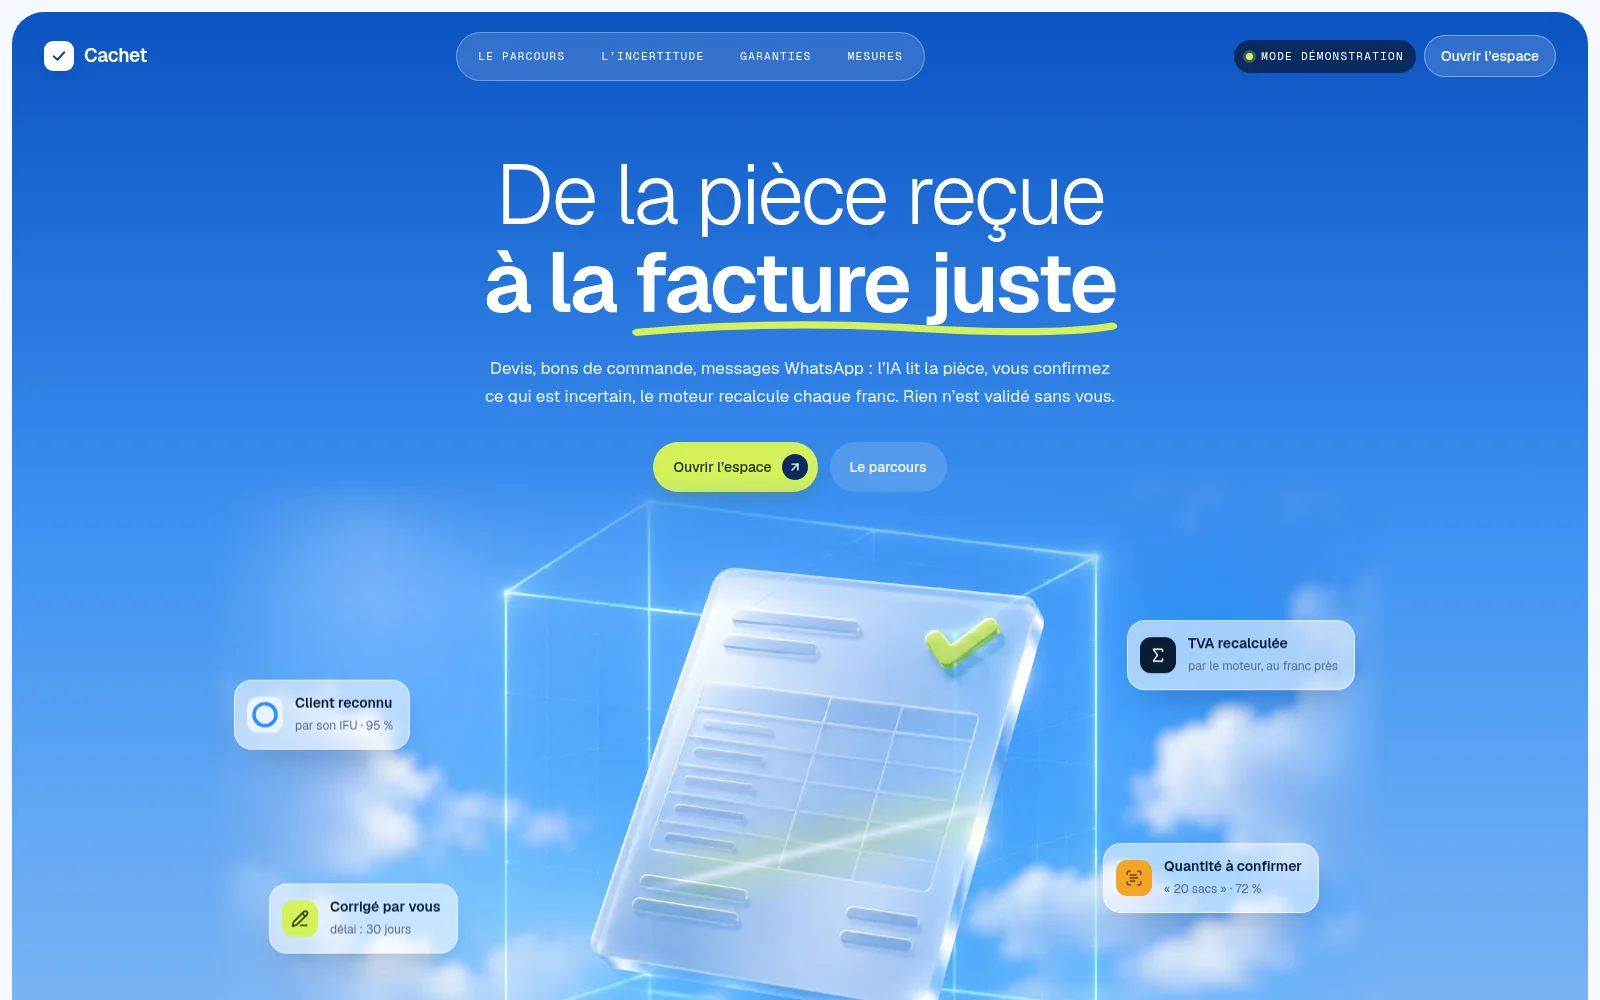
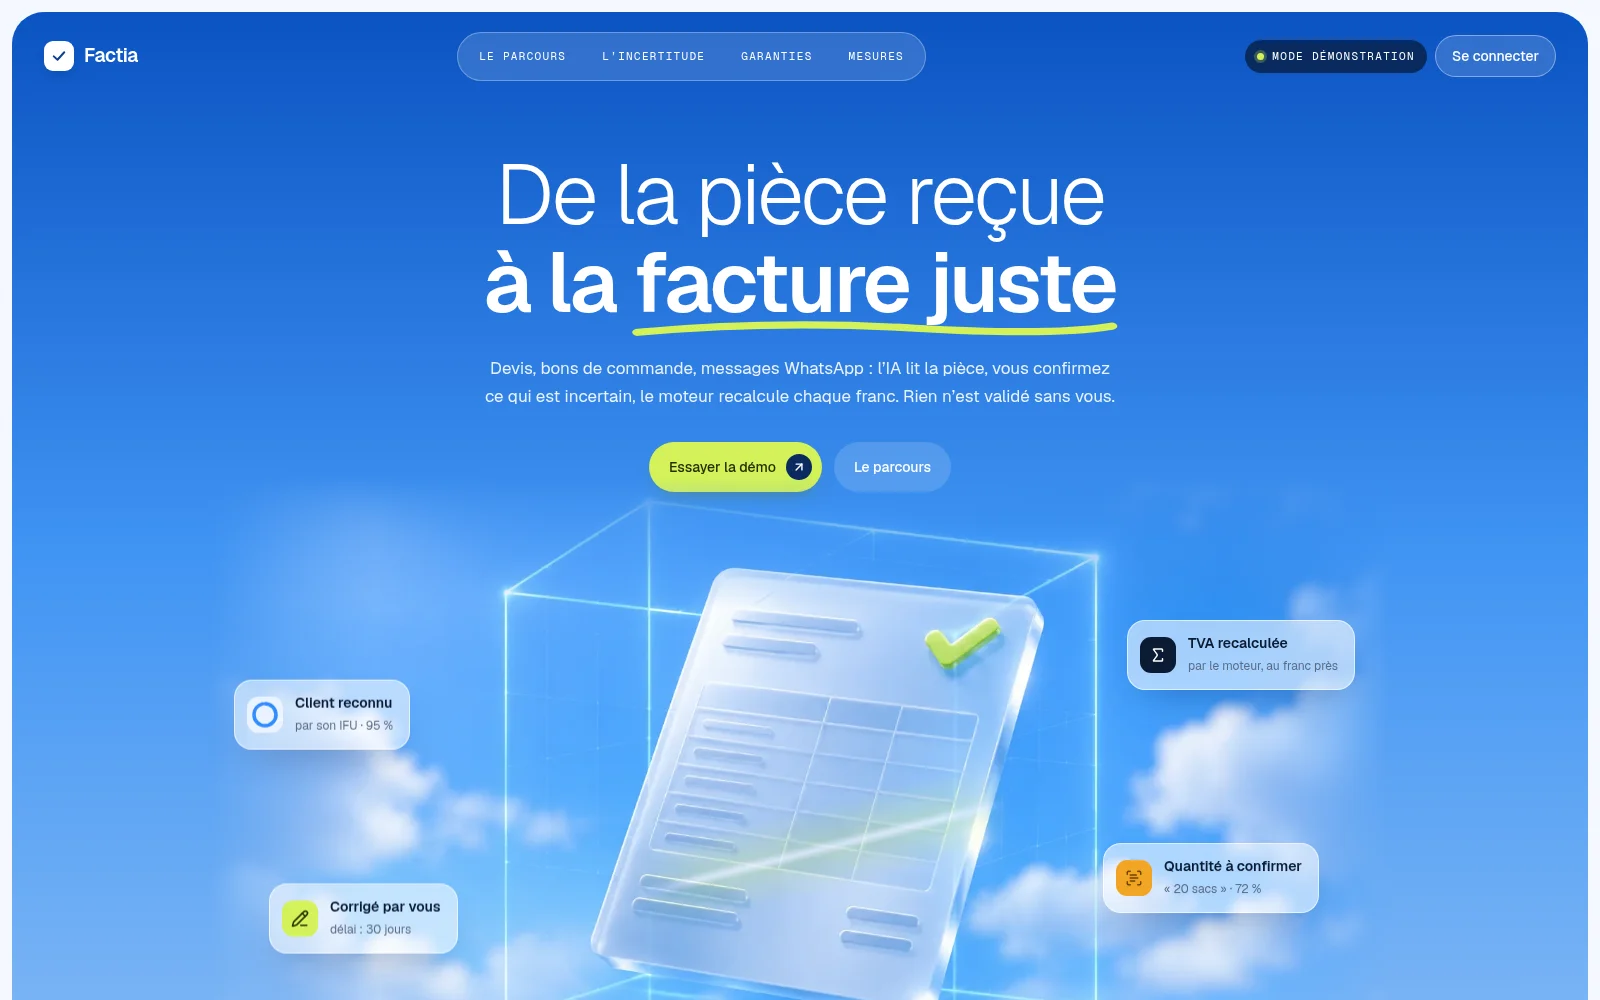
feat(front): renommer la solution en Factia, captures et présentation comprises

diff --git a/docs/presentation/presentation.html b/docs/presentation/presentation.html
@@ -2,7 +2,7 @@
 <html lang="fr">
 <head>
 <meta charset="utf-8">
-<title>Cachet · BWAI 2026</title>
+<title>Factia · BWAI 2026</title>
 <link href="https://fonts.googleapis.com/css2?family=Geist:wght@300;400;500;600&family=Geist+Mono:wght@400;500&display=swap" rel="stylesheet">
 <style>
 @page { size: 1920px 1080px; margin: 0; }
@@ -46,7 +46,7 @@ ul.clean li::before { content: ''; position: absolute; left: 0; top: 14px; width
 
 <!-- 1. Titre -->
 <section class="slide sky">
-  <div class="brand"><i><svg width="26" height="26" viewBox="0 0 24 24" fill="none"><path d="M5 12.5 10 17 19 7" stroke="#0A3E8C" stroke-width="2.8" stroke-linecap="round" stroke-linejoin="round"/></svg></i>Cachet</div>
+  <div class="brand"><i><svg width="26" height="26" viewBox="0 0 24 24" fill="none"><path d="M5 12.5 10 17 19 7" stroke="#0A3E8C" stroke-width="2.8" stroke-linecap="round" stroke-linejoin="round"/></svg></i>Factia</div>
   <div style="margin-top:110px; position:relative; z-index:2">
     <h1>De la pièce reçue<br><b>à la <span class="mark">facture juste</span></b></h1>
     <p class="lead" style="max-width:880px">L'IA lit la pièce, l'humain confirme l'incertain, le moteur calcule chaque franc. Puis la facture est émise, vérifiable et relancée jusqu'au règlement.</p>
@@ -64,7 +64,7 @@ ul.clean li::before { content: ''; position: absolute; left: 0; top: 14px; width
     <div class="card"><h3>Des erreurs coûteuses</h3><p>Client mal identifié, quantité ou prix mal recopiés, total faux, facture envoyée deux fois.</p></div>
     <div class="card"><h3>De l'argent qui tarde</h3><p>Les échéances passent sans relance ; le client ne peut pas vérifier qu'une facture est authentique.</p></div>
   </div>
-  <div class="foot"><span>Cachet · BWAI 2026</span><span>2</span></div>
+  <div class="foot"><span>Factia · BWAI 2026</span><span>2</span></div>
 </section>
 
 <!-- 3. Notre réponse -->
@@ -77,7 +77,7 @@ ul.clean li::before { content: ''; position: absolute; left: 0; top: 14px; width
     <div class="card"><span class="num">3 / 4</span><h3 style="margin-top:10px">Valider</h3><p>10 contrôles, validation par un autre utilisateur, numéro sans trou.</p></div>
     <div class="card"><span class="num">4 / 4</span><h3 style="margin-top:10px">Encaisser</h3><p>Émission, règlements, avoirs, relances et vérification par QR code.</p></div>
   </div>
-  <div class="foot"><span>Cachet · BWAI 2026</span><span>3</span></div>
+  <div class="foot"><span>Factia · BWAI 2026</span><span>3</span></div>
 </section>
 
 <!-- 4. Revue -->
@@ -95,7 +95,7 @@ ul.clean li::before { content: ''; position: absolute; left: 0; top: 14px; width
       </ul>
     </div>
   </div>
-  <div class="foot"><span>Cachet · BWAI 2026</span><span>4</span></div>
+  <div class="foot"><span>Factia · BWAI 2026</span><span>4</span></div>
 </section>
 
 <!-- 5. Nera -->
@@ -133,7 +133,7 @@ ul.clean li::before { content: ''; position: absolute; left: 0; top: 14px; width
       <p class="lead" style="font-size:26px; margin-top:24px">Le QR code ouvre une page publique : l'empreinte du contenu est recalculée et comparée au journal chaîné.</p>
     </div>
   </div>
-  <div class="foot"><span>Cachet · BWAI 2026</span><span>6</span></div>
+  <div class="foot"><span>Factia · BWAI 2026</span><span>6</span></div>
 </section>
 
 <!-- 7. Recouvrement -->
@@ -150,7 +150,7 @@ ul.clean li::before { content: ''; position: absolute; left: 0; top: 14px; width
       </ul>
     </div>
   </div>
-  <div class="foot"><span>Cachet · BWAI 2026</span><span>7</span></div>
+  <div class="foot"><span>Factia · BWAI 2026</span><span>7</span></div>
 </section>
 
 <!-- 8. Fiabilité -->
@@ -165,7 +165,7 @@ ul.clean li::before { content: ''; position: absolute; left: 0; top: 14px; width
     <div class="card"><h3>Correction par avoir</h3><p>Une facture validée ne se modifie jamais.</p></div>
     <div class="card"><h3>Journal infalsifiable</h3><p>Chaque action chaînée à la précédente par son empreinte.</p></div>
   </div>
-  <div class="foot"><span>Cachet · BWAI 2026</span><span>8</span></div>
+  <div class="foot"><span>Factia · BWAI 2026</span><span>8</span></div>
 </section>
 
 <!-- 9. IA mesurée -->
@@ -196,7 +196,7 @@ ul.clean li::before { content: ''; position: absolute; left: 0; top: 14px; width
     <li>Ports et adaptateurs : le cœur métier ne dépend de rien, vérifié à chaque intégration</li>
     <li>Règles métier en configuration ; leur empreinte est inscrite sur chaque facture validée</li>
   </ul>
-  <div class="foot"><span>Cachet · BWAI 2026</span><span>10</span></div>
+  <div class="foot"><span>Factia · BWAI 2026</span><span>10</span></div>
 </section>
 
 <!-- 11. Limites et suite -->
@@ -209,7 +209,7 @@ ul.clean li::before { content: ''; position: absolute; left: 0; top: 14px; width
     <div class="card"><h3>Expérimentation proposée</h3>
       <ul class="clean"><li style="font-size:25px">Deux PME volontaires, cent pièces réelles anonymisées</li><li style="font-size:25px">Mesure de la ressaisie manuelle, puis du prototype</li><li style="font-size:25px">Canal WhatsApp Business et rappel mobile money réels</li><li style="font-size:25px">Comparer temps, erreurs évitées et délai d'encaissement</li></ul></div>
   </div>
-  <div class="foot"><span>Cachet · BWAI 2026</span><span>11</span></div>
+  <div class="foot"><span>Factia · BWAI 2026</span><span>11</span></div>
 </section>
 
 <!-- 12. Merci -->

diff --git a/frontend/index.html b/frontend/index.html
@@ -4,7 +4,7 @@
     <meta charset="UTF-8" />
     <link rel="icon" type="image/svg+xml" href="/favicon.svg" />
     <meta name="viewport" content="width=device-width, initial-scale=1.0" />
-    <title>Cachet</title>
+    <title>Factia</title>
   </head>
   <body>
     <div id="root"></div>

diff --git a/frontend/src/i18n/fr.ts b/frontend/src/i18n/fr.ts
@@ -1,7 +1,7 @@
 /** Tous les textes affichés. Aucun texte en dur dans les composants. */
 export const fr = {
   brand: {
-    name: 'Cachet',
+    name: 'Factia',
     tagline: 'De la pièce reçue à la facture juste',
   },
   health: {

diff --git a/docs/demo/script-court.md b/docs/demo/script-court.md
@@ -7,7 +7,7 @@
 
 | Temps | Écran | Geste | Voix off |
 | --- | --- | --- | --- |
-| 0:00 | Accueil | Laisser jouer le héros | « Une PME reçoit ses commandes par WhatsApp et les ressaisit à la main. Cachet transforme la pièce reçue en facture juste. » |
+| 0:00 | Accueil | Laisser jouer le héros | « Une PME reçoit ses commandes par WhatsApp et les ressaisit à la main. Factia transforme la pièce reçue en facture juste. » |
 | 0:15 | Importer (opérateur) | Coller le scénario 1 | « L'extraction tourne hors ligne ; chaque champ montre sa source et sa confiance. » |
 | 0:35 | Revue | Survoler deux champs ; montrer les totaux | « Le moteur recalcule chaque franc : l'IA ne calcule jamais. » |
 | 0:50 | Importer | Coller le scénario 3 | « Client inconnu, total faux : la validation est bloquée, rien n'est inventé. » |
